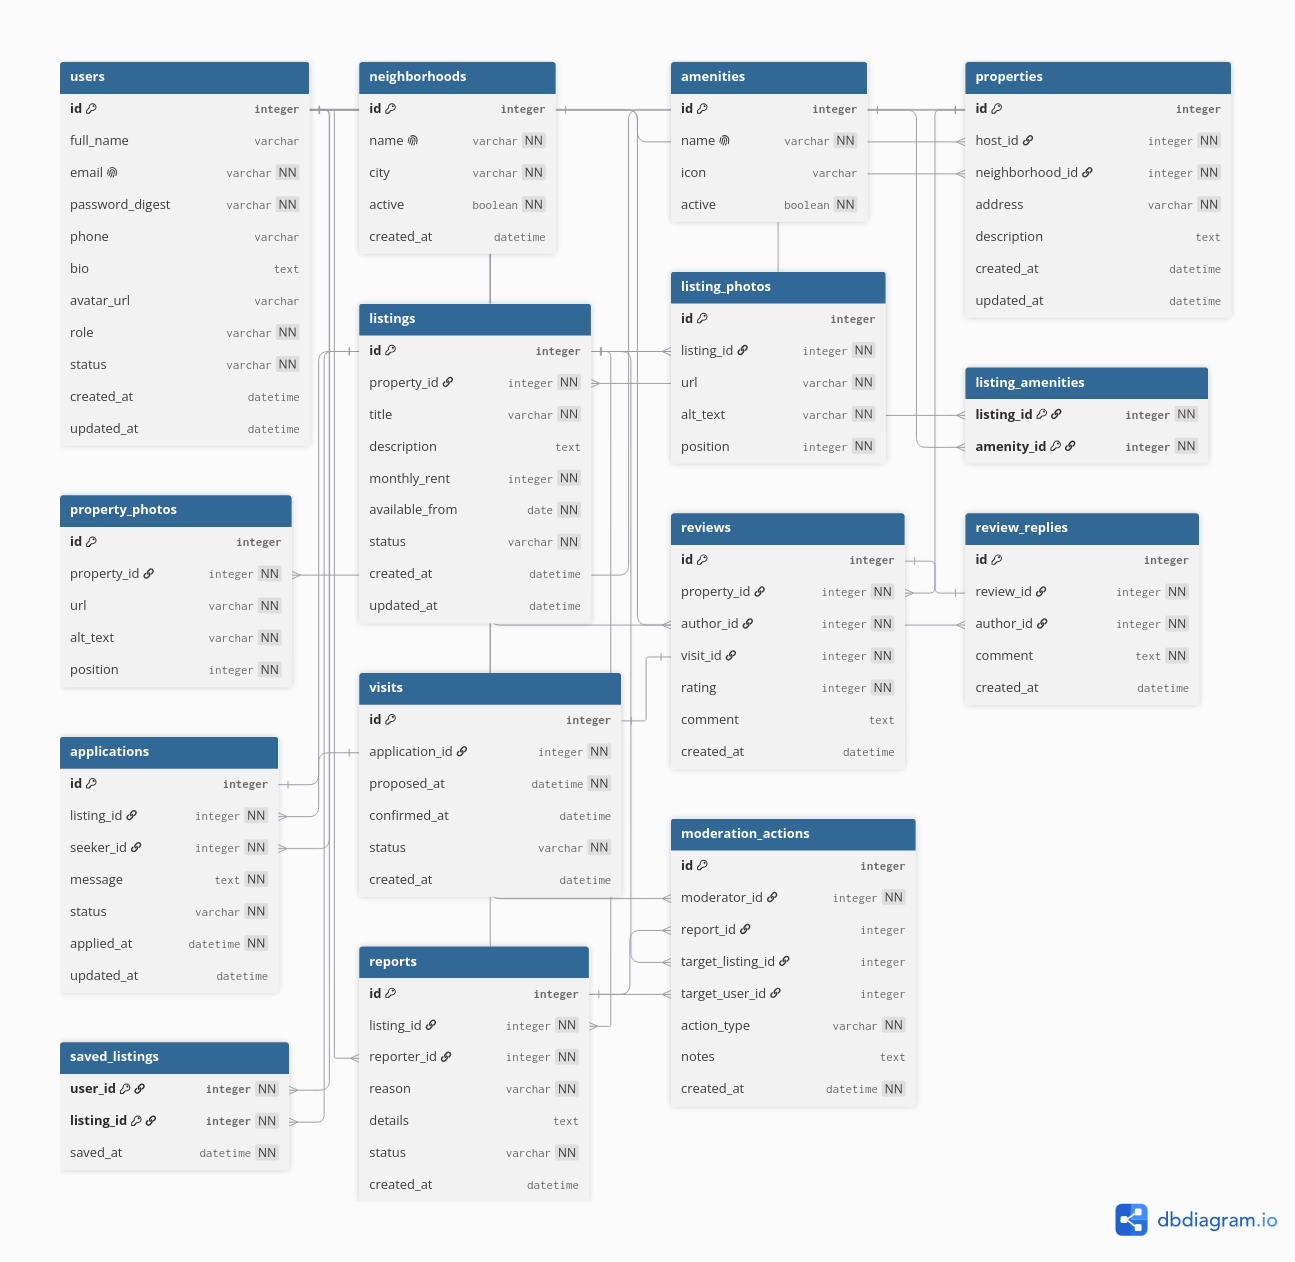
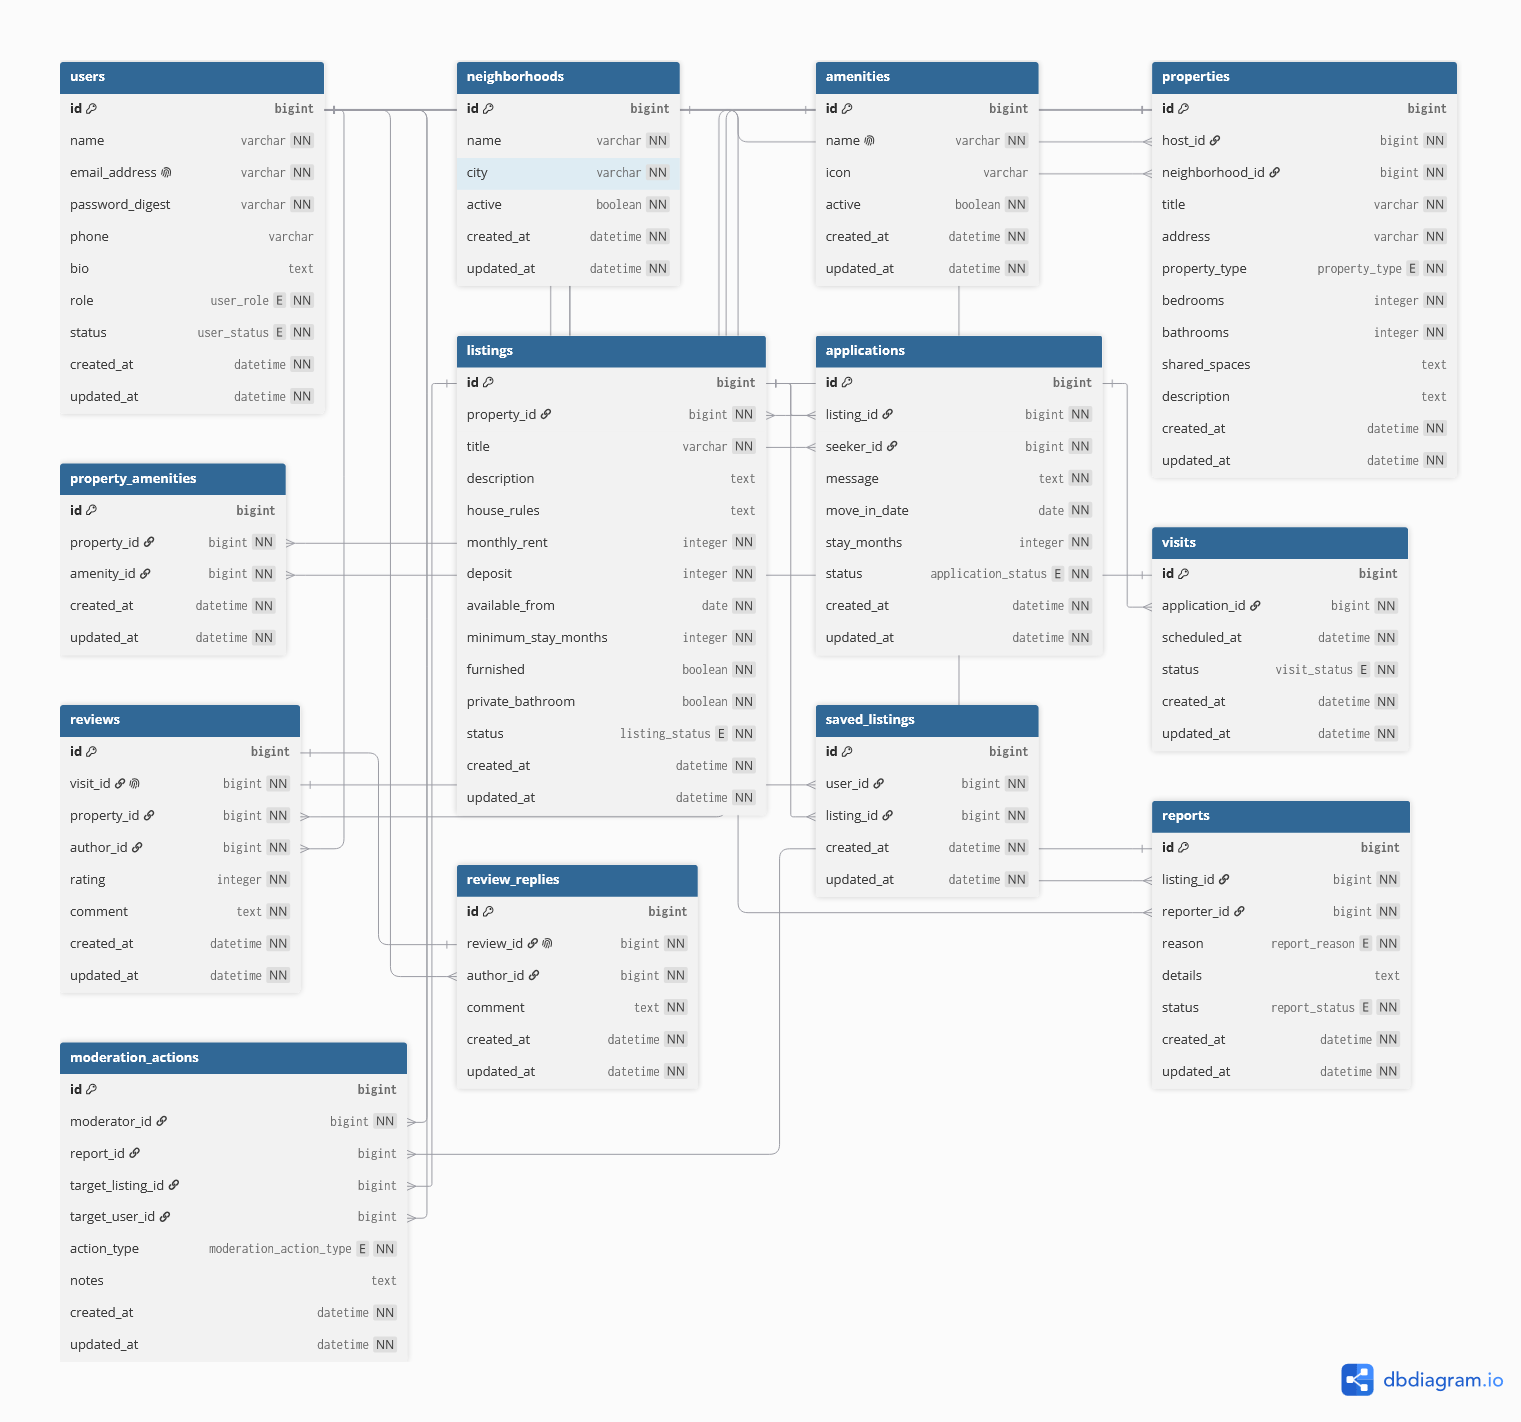
update domain model

diff --git a/docs/design-decisions.md b/docs/design-decisions.md
@@ -4,30 +4,44 @@ Reasoning behind the model in [`domain-model.dbml`](./domain-model.dbml).
 
 ## Entities not named explicitly in the description
 
-- **`property_photos` / `listing_photos`** — split into two galleries (common areas vs. the specific room) instead of one generic table.
-- **`listing_amenities`** — a pure join table for the listing↔amenity many-to-many.
-- **`visits`** — "arranging a visit" implies its own lifecycle and timestamps, distinct from the application; it also anchors review eligibility.
-- **`review_replies`** — lets a host respond to a review, as its own table so author/timestamp aren't ambiguous.
-- **`reports` vs. `moderation_actions`** — a report says *why* something looks wrong; an action log says *what a moderator did*, kept separate since not every action stems from a report, and story 7.8 asks for a traceable history.
-- **`neighborhoods` / `amenities` as catalogs**, not free text, since moderators explicitly manage them.
+- **`property_amenities`** — pure join table for the properties↔amenities many-to-many. Amenities describe the home, so they hang from the property, not from each listing.
+- **`visits`** — "arranging a visit" has its own lifecycle and timestamps, distinct from the application; a completed visit also anchors review eligibility.
+- **`review_replies`** — lets a host answer a review, as its own table so author and timestamp are unambiguous (one reply per review).
+- **`saved_listings`** — join table for the users↔listings many-to-many.
+- **`reports` vs. `moderation_actions`** — a report says *why* a listing looks wrong; an action log says *what a moderator did*. They are separate because not every action stems from a report, and moderation must be traceable.
+- **`neighborhoods` / `amenities` as catalogs**, not free text, because moderators manage them. They are deactivated (`active = false`), never deleted.
 
 ## Lifecycle of a listing
 
-`draft → active → paused → closed`, with `removed` reachable from any state via moderation. `draft` is prep-only (1.5); `active` is searchable; `paused` hides it without deleting (1.7); `closed` fires automatically when a host accepts an applicant (4.6), which also auto-rejects the rest; `removed` is moderator-driven (7.4), kept distinct from `closed` so "filled" and "taken down" don't look the same in an audit. A single `status` column was enough since no story asks for a visible status-change timeline.
+`draft → published → reserved → rented`, with `withdrawn` reachable from any state (by the host or a moderator), which voids pending applications. Stored as one `status` enum column. `reserved` is set automatically when the host accepts an applicant; `rented` when the new housemate moves in. `withdrawn` stays distinct from `rented` so "filled" and "taken down" never look alike.
 
 ## Lifecycle of an application
 
-`pending → shortlisted → visit_scheduled → accepted / rejected`, with `withdrawn` reachable any time by the seeker (3.3). `visit_scheduled` is set once a `visits` row exists; the visit's own status tracks proposed/confirmed/completed so the application doesn't duplicate that detail. `accepted` (4.5) triggers the listing's closing and the auto-rejection cascade. An application is its own entity — not a bare link table — because it carries a `message`, `applied_at`, and this status; a unique `(listing_id, seeker_id)` index enforces "no duplicate active applications" (3.4).
+`pending → shortlisted → accepted / rejected`, with `withdrawn` available to the seeker while `pending` or `shortlisted`. Visit progress is **not** duplicated here: it lives in `visits` (`proposed → confirmed → completed`, or `cancelled`). An application is its own entity — not a bare link — because it carries a message, a desired move-in date, a stay length, and its own status. Accepting one application is atomic: it becomes `accepted`, every other open application of the listing becomes `rejected`, and the listing becomes `reserved`. A unique `(listing_id, seeker_id)` index blocks duplicate applications, and a partial unique index on `listing_id WHERE status = 'accepted'` makes two accepted applications impossible at the database level.
 
 ## Assumptions
 
-- A property can hold several listings, but each listing belongs to exactly one property (rooms are the unit applied to).
-- Reviews are tied to the **property** via the completed `visit` that grants eligibility, not freely to any past interaction.
-- Host/seeker are not stored as an account type — any `member` can do both (8.4); `moderator` is the one privileged role kept as an explicit flag.
-- A visit is 1-to-1 with its application; redoing a visit updates the same row rather than creating a new one.
-- Saved listings carry no metadata beyond a timestamp.
-- A report always targets a listing (the only reportable object named in the brief); action against a user is recorded on `moderation_actions`, not on the report itself.
+- A property can hold several listings; each listing belongs to exactly one property (the room is the unit applied to).
+- A host or seeker is not an account type: any `member` can be both. `moderator` is the only privileged role; `visitor` is simply being signed out. `users.status` (`active`/`suspended`) supports account suspension.
+- Reviews belong to the **property**, granted by a **completed visit** (`reviews.visit_id` is unique: one review per visit). `property_id` is denormalized onto the review so a property's reviews can be listed directly.
+- A host cannot review their own property, and only the host can reply to a review of it.
+- An application can have several visits (the host can cancel one and propose another).
+- A report always targets a listing, and a member reports a given listing once. Actions against a user or a review are recorded in `moderation_actions`; a removed review is described in `notes`, since its row is deleted.
+- Photos and rich text (description, house rules) are handled by Active Storage and Action Text in Assignment 3, so there are no photo tables.
 
-## Why the landing page keeps 4 "how it works" steps instead of 3
+## What changed since Assignment 1
 
-The brief describes the process as three steps — *"publish or search, apply, visit and move in"* — with the last one written as a single combined step. We kept **Visit** and **Move In** as two separate cards on the landing page instead of merging them, because they are distinct moments in the domain model with their own state: a `visit` (proposed/confirmed/completed) happens before a decision is made, while moving in only follows the `accepted` application status and the listing's `closed` transition. Collapsing them into one card would hide that an applicant can be rejected after a visit and before moving in — a real outcome the application lifecycle explicitly supports (an `accepted` applicant moves in; every other visited applicant is auto-`rejected`). We judged that showing this distinction on the homepage sets more accurate expectations for a first-time visitor than following the brief's wording literally, at the cost of a minor deviation from the exact "three steps" phrasing.
+Writing the models showed the first diagram was heavier than the domain needs:
+
+| Assignment 1 | Now | Why |
+|---|---|---|
+| `property_photos`, `listing_photos` | removed | Active Storage attachments replace them; no custom tables needed. |
+| `listing_amenities` | `property_amenities` | Amenities are a trait of the home, shared by all its rooms. |
+| Listing `draft/active/paused/closed/removed` | `draft/published/reserved/rented/withdrawn` | Matches the project description; "paused" and "removed" collapse into `withdrawn`, and `reserved`/`rented` separate "accepted" from "moved in". |
+| Application `…/visit_scheduled/…`, `applied_at` | status without `visit_scheduled`; `created_at` | Visit progress belongs to `visits`; the creation timestamp is the application date. |
+| Visit 1-to-1 with application | many visits per application | Redoing a cancelled visit keeps the history. |
+| — | `users.status`, `reports.reason/status` enums, DB `CHECK` constraints, partial unique index | Support suspension, moderation queues, and enforce business rules in the database. |
+
+## Why the landing page keeps 4 "how it works" steps
+
+The brief describes three steps — *publish or search, apply, visit and move in* — with the last one combined. The landing page keeps **Visit** and **Move in** as separate cards because they are distinct moments with their own state: a visit (`proposed/confirmed/completed`) happens before the decision, while moving in only follows an `accepted` application and a `reserved` listing. Merging them would hide that an applicant can be rejected after a visit. This is a minor, deliberate deviation from the brief's wording.

diff --git a/docs/USER_STORIES.md b/docs/USER_STORIES.md
@@ -29,7 +29,7 @@ Some stories apply to any signed-in member regardless of the role they are playi
 
 1.6. As a **host**, I want to **edit a listing's information after publishing it**, so that **I can correct mistakes or update the rent and availability**.
 
-1.7. As a **host**, I want to **pause or close a listing**, so that **it stops appearing in search results once the room is no longer available**.
+1.7. As a **host**, I want to **withdraw a listing**, so that **it stops appearing in search results once the room is no longer available**.
 
 1.8. As a **host**, I want to **see a list of all my properties and their listings in one place**, so that **I can manage everything I have published**.
 
@@ -37,7 +37,7 @@ Some stories apply to any signed-in member regardless of the role they are playi
 
 ## 2. Searching and Browsing Listings
 
-2.1. As a **visitor**, I want to **browse active listings without creating an account**, so that **I can explore what's available before deciding to sign up**.
+2.1. As a **visitor**, I want to **browse published listings without creating an account**, so that **I can explore what's available before deciding to sign up**.
 
 2.2. As a **visitor**, I want to **filter listings by neighborhood, maximum rent, and availability date**, so that **I can narrow down results to what fits my needs**.
 
@@ -55,7 +55,7 @@ Some stories apply to any signed-in member regardless of the role they are playi
 
 3.1. As a **seeker**, I want to **apply to a listing with a short message to the host**, so that **I can introduce myself and express interest in the room**.
 
-3.2. As a **seeker**, I want to **see the current status of each application I've sent (pending, shortlisted, visit scheduled, accepted, rejected, withdrawn)**, so that **I know where I stand with each listing**.
+3.2. As a **seeker**, I want to **see the current status of each application I've sent (pending, shortlisted, accepted, rejected, withdrawn)**, so that **I know where I stand with each listing**.
 
 3.3. As a **seeker**, I want to **withdraw an application I previously sent**, so that **I can back out if I'm no longer interested or already found a room**.
 
@@ -115,7 +115,7 @@ Some stories apply to any signed-in member regardless of the role they are playi
 
 7.3. As a **moderator**, I want to **dismiss a report that turns out to be unfounded**, so that **the listing keeps operating normally and the report is closed**.
 
-7.4. As a **moderator**, I want to **suspend or remove a listing that violates platform rules**, so that **it stops being visible to seekers**.
+7.4. As a **moderator**, I want to **withdraw a listing that violates platform rules**, so that **it stops being visible to seekers**.
 
 7.5. As a **moderator**, I want to **suspend a member's account in cases of repeated or serious violations**, so that **I can protect the integrity of the platform**.
 
